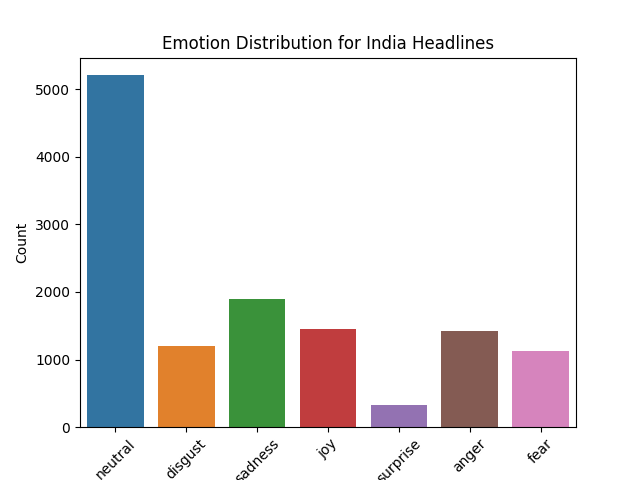
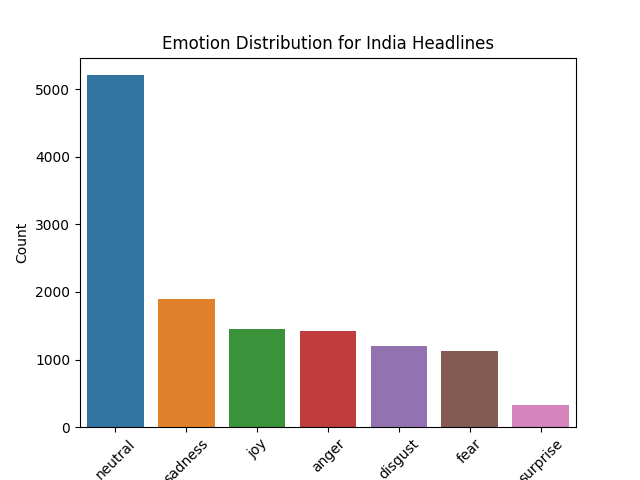
readme

diff --git a/src/main.py b/src/main.py
@@ -1,94 +1,77 @@
-# imports
 import pandas as pd
 from transformers import pipeline
 import matplotlib.pyplot as plt
 import seaborn as sns
 
-# initializing a huggingface pipeline
+# Initializing a Hugging Face pipeline
 emotion_classifier = pipeline("text-classification", model="j-hartmann/emotion-english-distilroberta-base")
 
-# loading the dataset
+# Loading the dataset
 df = pd.read_csv('language-project/in/headlines.csv')
 
-# i want to be looking at articles from 2021, as they are the newest and as there are most occurrences of these
+# Filtering articles from 2021
 df_2021 = df[df['time'].str.startswith('2021')]
 
-# Using function from earlier to classify emotions for the new df_2021 dataset
+# Function to classify emotions
 def classify_emotions(data):
-    emotions = []
-    for headline in data['headline_no_site']:
-        result = emotion_classifier(headline)
-        emotion = result[0]['label']
-        emotions.append(emotion)
-    return emotions
+    return [emotion_classifier(headline)[0]['label'] for headline in data['headline_no_site']]
 
+# Classify emotions for 2021 articles
 classified_headlines = classify_emotions(df_2021)
 
-# Now i want to compare the classified headlines based on country
-# Creating an empty dictionary to store the classified headlines for each country
+# Creating a dictionary to store the classified headlines for each country
 country_headlines = {}
 
-# Iterating over the rows of the df_2021 dataset
+# Iterating over the rows of df_2021 dataset
 for _, row in df_2021.iterrows():
     country = row['country']
-    headline = row['headline_no_site']
-    result = emotion_classifier(headline)
-    emotion = result[0]['label']
-    
-    # Check if the country is already a key in the dictionary
-    if country in country_headlines:
-        country_headlines[country].append(emotion)
-    else:
-        country_headlines[country] = [emotion]
+    emotion = classified_headlines.pop(0)  # Get the next emotion from the list
+    country_headlines.setdefault(country, []).append(emotion)
 
-# iterating over the dictionary to investigate which countries are present and how many articles are from each country
+# Investigating the countries and the number of articles for each country
 for country, headlines in country_headlines.items():
     num_articles = len(headlines)
     print(f"Country: {country} | Number of Articles: {num_articles}")
 
-# creating a plot to visualise the amount of articles for the countries represented in 2021
-countries = ['USA', 'India', 'UK', 'South Africa']
-num_articles = [7747, 12622, 10539, 2553]
+# Creating a plot to visualize the number of articles for the countries represented in 2021
+countries = list(country_headlines.keys())
+num_articles = [len(headlines) for headlines in country_headlines.values()]
 
 plt.bar(countries, num_articles)
 plt.xlabel('Country')
 plt.ylabel('Number of Articles')
 plt.title('Number of Articles per Country')
 
-# saving figure to out folder
+# Saving the figure
 plt.savefig('language-project/out/articles_per_country.png')
 
-# the number of articles is important to remember when comparing the countries, because there is
-# an obvious difference, which will be reflected in the number of classified emotions because they are 
-# represented differently
+# Creating a table to store emotion distributions for all countries
+emotion_distributions = {}
 
-# Now i want to compare the classified headlines based on country
-
-# Creating an empty dictionary to store the classified headlines for each country
-country_emotions = {}
-
-# Iterate over the rows of df_2021 and store the emotions for each country
-index = 0
-for _, row in df_2021.iterrows():
-    country = row['country']
-    emotion = classified_headlines[index]
-    index += 1
-    if country in country_emotions:
-        country_emotions[country].append(emotion)
-    else:
-        country_emotions[country] = [emotion]
-
-# Visualize the emotion distribution for each country
-for country, emotions in country_emotions.items():
-    emotion_counts = {emotion: emotions.count(emotion) for emotion in set(emotions)}
+# Calculating and visualizing the emotion distribution for each country
+for country, emotions in country_headlines.items():
+    emotion_counts = pd.Series(emotions).value_counts()
+    normalized_emotion_counts = pd.Series(emotions).value_counts(normalize=True)
     
-    # Create bar plot
+    # Creating a bar plot for the emotion distribution
     plt.figure()
-    sns.barplot(x=list(emotion_counts.keys()), y=list(emotion_counts.values()))
+    sns.barplot(x=emotion_counts.index, y=emotion_counts.values)
     plt.xlabel('Emotion')
     plt.ylabel('Count')
     plt.title(f'Emotion Distribution for {country} Headlines')
     plt.xticks(rotation=45)
     
-    # Save the plot
+    # Saving the plot
     plt.savefig(f'language-project/out/emotion_distribution_{country}.png')
+    
+    # Storing the emotion distribution in the table
+    emotion_distributions[country] = normalized_emotion_counts
+
+# Creating a table to display the normalized emotion distributions for all countries
+emotion_table = pd.DataFrame(emotion_distributions)
+
+# Save the emotion table as a CSV file
+emotion_table.to_csv('language-project/out/emotion_table.csv', index=True)
+
+# Displaying the emotion table
+print(emotion_table)

diff --git a/README.md b/README.md
@@ -2,7 +2,9 @@
 ## Purpose
 This is my self-assigned project, which can be seen as a continuation of assignment 4, in that the methods are similar, but the dataset is different, which makes room for using Huggingface for classifying emotions in other ways.
 
-This project seeks to investigate which emotions are more dominant in headlines speaking of women.
+The project aims to analyze the emotions conveyed in news headlines from different countries. It utilizes a pre-trained emotion classification model from the Hugging Face library to classify the emotions associated with each headline. The analysis focuses on articles from the year 2021 as they represent the most recent and contains most articles.
+
+Overall, this project seeks to investigate which emotions are more dominant in headlines speaking of women.
 
 ## Steps
 
